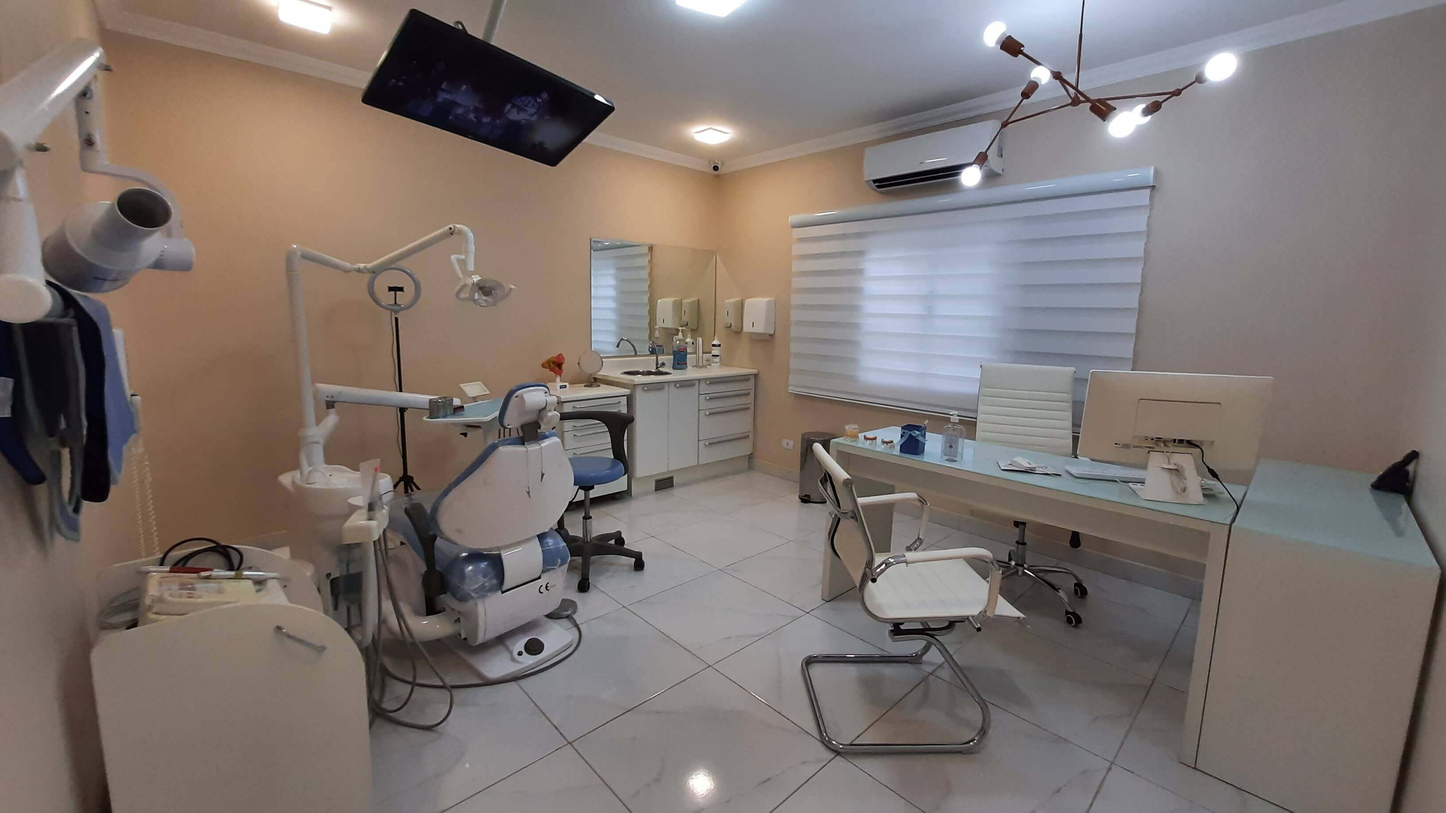
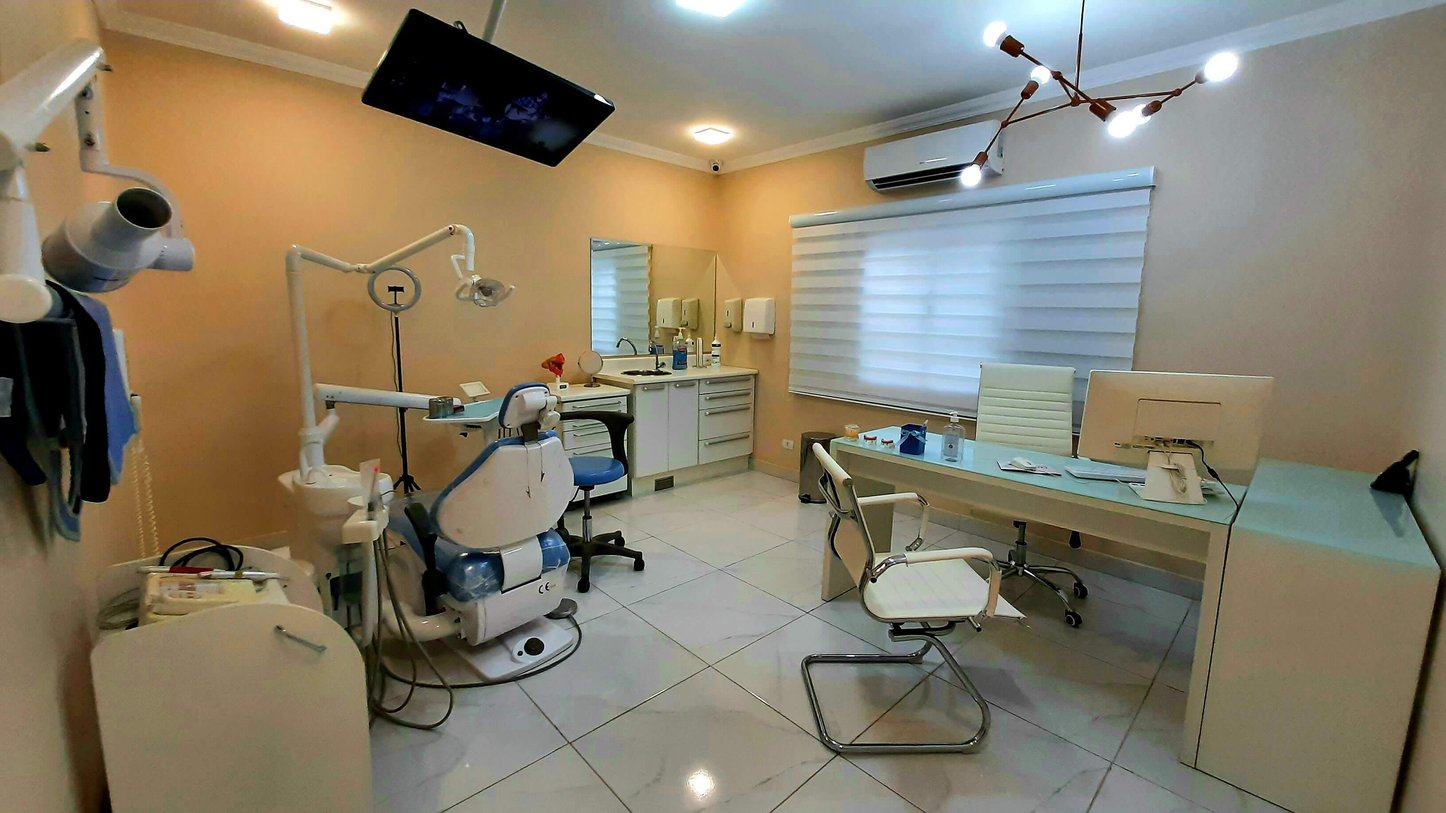
arrumado imgs

diff --git a/index.html b/index.html
@@ -96,7 +96,7 @@
       <div class="carousel-inner">
         <div class="carousel-item active" data-bs-interval="3000">
           <img
-            src="src/img/entrada.jpg"
+            src="src/img/sala.jpg"
             class="d-block w-100 imagem-carrosel" alt="fachada do consultório Cotidente">
         </div>
         <div class="carousel-item" data-bs-interval="3000">
@@ -106,12 +106,12 @@
         </div>
         <div class="carousel-item" data-bs-interval="3000">
           <img
-            src="src/img/consultorio.jpg"
+            src="src/img/consultorio1.jpg"
             class="d-block w-100 imagem-carrosel" alt="consultório dentário da Cotidente">
         </div>
         <div class="carousel-item" data-bs-interval="000"> 
           <img
-            src="src/img/sala de espera (2).jpg"
+            src="src/img/sala de espera.jpg"
             class="d-block w-100 imagem-carrosel" alt="dentistas da Cotidente-cotia ">
         </div>
       </div>

diff --git a/src/style/style.css b/src/style/style.css
@@ -77,15 +77,16 @@ h2,h3 {
 }
     
 .logo{
-    width: 200px;
-    height: 70px;
+    width: 150px;
+    height: 60px;
     
 }
 /*  */
 
 /* corrosel */
 .imagem-carrosel{
-    object-fit: cover;
+    object-fit: fill;
+    
     max-height: 600px;
     min-height: 300px;  
     
@@ -140,3 +141,18 @@ h2,h3 {
 .cor-footer{
     background-color: #024d79;
 }
+
+h2 {
+    padding: 1em;
+    margin-top: 1em;
+    background: #01aad1;
+    text-align: center;
+    color: white;
+    border-radius: .2em;
+    display: inline-block;
+    transform: translateX(calc((100vw - 100%) / 2))
+  }
+  
+  h2 a {
+    color: #f5b916
+  }

diff --git a/src/style/tratamento.css b/src/style/tratamento.css
@@ -143,17 +143,3 @@
     left: calc(-10% - 3px);
   }
   
-  h2 {
-    padding: 1em;
-    margin-top: 1em;
-    background: rgba(0,0,0,.3);
-    text-align: center;
-    color: white;
-    border-radius: .2em;
-    display: inline-block;
-    transform: translateX(calc((100vw - 100%) / 2))
-  }
-  
-  h2 a {
-    color: #f5b916
-  }
